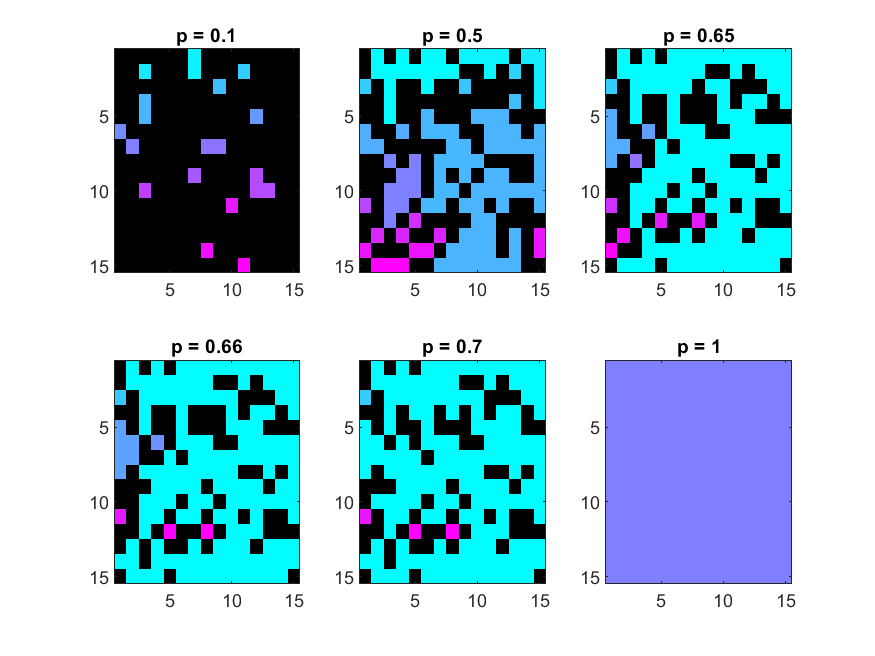
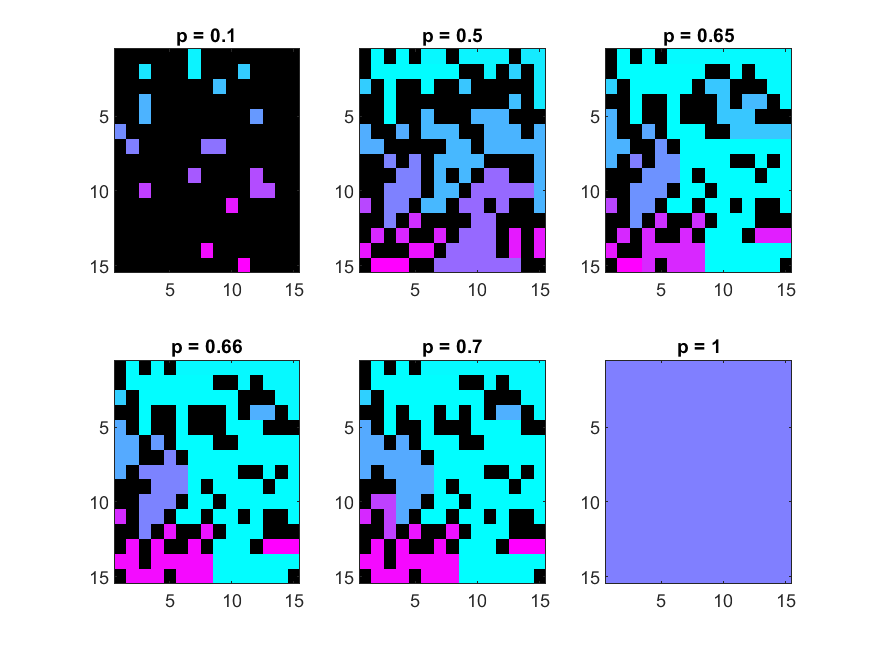
modification of the test functions, implementation of the neighbour function, removal of unnecessary function

diff --git a/testing/test_isvalid_regroup.m b/testing/test_isvalid_regroup.m
@@ -1,14 +1,27 @@
-function test_isvalid_regroup(mask)
-[label,mask]=regroup(mask);
- for i=1:size(mask,1)-1
-    for j=1:size(mask,2)-1
-        %test that 0 and 1 in mask are linked also in label
-        if mask(i,j) == mask(i+1,j) 
-            assert (label(i,j) == label(i+1,j));
-        end
-        if mask(i,j) == mask(i,j+1) 
-            assert (label(i,j) == label(i,j+1));
-        end
-    end
-end
-end
+function test_isvalid_regroup()
+% This test function considers two expected label examples and by applying the
+% regroup function test its validity
+
+% Test 1: generic non percolating case
+mask = [0 0 0 0 0;
+        0 1 0 1 0;
+        0 0 1 0 0;
+        0 1 0 1 0;
+        0 0 0 0 0]; % Input mask
+expected_label = [1, 0, 2; 0, 3, 0; 4, 0, 5]; % Expected output label matrix
+expected_mask = [1, 0, 1; 0, 1, 0; 1, 0, 1]; % Expected output mask matrix
+[actual_label, actual_mask] = regroup(mask);
+assert(isequal(actual_label, expected_label), 'Test failed: label matrix not as expected');
+assert(isequal(actual_mask, expected_mask), 'Test failed: mask matrix not as expected');
+
+%Test 2: generic percolating case
+mask = [0 0 0 0 0;
+        0 0 1 1 0;
+        0 1 0 1 0;
+        0 1 1 1 0;
+        0 0 0 0 0];
+expected_label = [0, 1, 1; 1, 0, 1; 1, 1, 1];
+expected_mask = [0, 1, 1; 1, 0, 1; 1, 1, 1];
+[actual_label, actual_mask] = regroup(mask);
+assert(isequal(actual_label, expected_label), 'Test failed: label matrix not as expected');
+assert(isequal(actual_mask, expected_mask), 'Test failed: mask matrix not as expected');

diff --git a/testing/test_substitute.m b/testing/test_substitute.m
@@ -1,22 +1,33 @@
 function test_substitute()
+%This test function considers two label examples and by applying the substitute 
+%function tests its validity 
+%In the second example it tests that every cluster has its minimum
+%possible value respect to the initial label matrix
+
 % Test case 1: Substitute multiple labels in a 3x3 matrix
-label = [1 2 3; 4 2 6; 2 2 9];
+label = [1 2 3; 
+         4 5 6;
+         2 2 9];
 copy = 2;
-minimum = 0;
-expected = [1 0 3; 4 0 6; 0 0 9];
-assert(isequal(substitute(label, copy, minimum), expected));
-% Test case 2: substitute function (in the regroup one) every cluster has its minimum
-   %possible value (minimum one)
-load('config.mat','N','M','p','len','s');
-for z=1:len
-   [mask]=initial_mask(N,M,p(z),s);
-   [label]=counter_process(mask);
-   copy=label;
-   [label]=regroup(mask);
-    for j=1:size(label,2)
-        for i=1:size(label,1)
-            assert (label(i,j)<=copy(i,j))
-        end
-    end
-end
-end
+minimum = 1;
+expected = [1 1 3;
+            4 5 6;
+            1 1 9];
+[actual] = substitute(label, copy, minimum);
+assert(isequal(actual, expected), 'Test failed: substitute matrix not as expected');
+
+% Test case 2: propriety of substitute function   
+label = [0 1 0 2;
+         1 1 0 2;
+         0 1 1 1;
+         0 0 1 0];
+copy = 2;
+minimum = 1;
+[actual] = substitute(label, copy, minimum);
+assert(all(actual(:) <= label(:)), 'Test failed: substitute matrix not as expected');
+
+
+
+
+   
+   

diff --git a/percolating/regroup.m b/percolating/regroup.m
@@ -5,9 +5,9 @@ function [label,mask]=regroup(mask)
 %Parameters = mask: configuration created by initial_mask;
 %return the label matrix (and therefore the percolation pattern) and the initial
 %mask
+
  counter=1;
  label=zeros(size(mask));
- 
  for i=2:size(mask,1)-1
     for j=2:size(mask,2)-1
          if  mask(i,j)~=0
@@ -20,7 +20,7 @@ for i=2:size(label,1)-1
     for j=2:size(label,2)-1
         if  label(i,j)~=0
             minimum=label(i,j); %verifying in the 4 nearest neighbours the minimum value of the label
-            [min_neighbour]=neighbours(label,i,j);
+            [min_neighbour,label]=neighbours(label,i,j);
             if min_neighbour <= minimum
               minimum=min_neighbour;
               copy=label(i,j);
@@ -28,19 +28,15 @@ for i=2:size(label,1)-1
               [label]=substitute(label,copy,minimum);%use a substitute function in order to double check possible neighbours connected but not yet visualized
             else
                copy=min_neighbour;
-               label(i,j)=minimum;
+               
                [label]=substitute(label,copy,minimum);
             end
         end
     end
 end
-
-
 %remove external zeros
-
 mask = mask(2:size(mask,1)-1,2:size(mask,2)-1);
 label = label(2:size(label,1)-1,2:size(label,2)-1); 
-
 end
 
 

diff --git a/testing/test_results.m b/testing/test_results.m
@@ -1,14 +1,17 @@
 function test_results()
+%This test function consider two examples of label and by applying the
+%results function test where it has or not percolation
+%in the second test it gives percolation even if there's no path, but in 
+%our algorithm if they have same value there is always a path
+
 % Test case 1: No percolation
     label = [1, 2, 3; 4, 5, 6; 7, 8, 9];
     [perc, last] = results(label);
     assert(perc == 0, 'Error: The perc value is incorrect');
     assert(strcmp(last, 'The system has not reached percolation'), 'Error: The last string is incorrect');
-% Test case 2: Percolation
-    label = [1, 2, 3; 4, 5, 6; 3, 8, 9]; %scenario where opposite corners are occupied
+% Test case 2: Percolation scenario where opposite corners are occupied
+    label = [1, 2, 3; 4, 5, 6; 3, 8, 9]; 
     [perc, last] = results(label);
-    assert(perc == 1, 'Error: The perc value is incorrect'); %test gives percolation even if there's no path, in our algorithm if they have same value there is always a path
+    assert(perc == 1, 'Error: The perc value is incorrect'); 
     assert(strcmp(last, 'The system is percolated'), 'Error: The last string is incorrect');
-
-
 end

diff --git a/testing/test_simulation.m b/testing/test_simulation.m
@@ -1,8 +1,27 @@
 function test_simulation()
-load('config.mat','percolation');
-for i=1:size(percolation,1)
-    for j=1:size(percolation,2)
-        assert (percolation(i,j)==0|percolation(i,j)==1)
-    end 
-end
-end
+%This test function calls the percolation function with example inputs
+% then the first test that the percolation table is made of 0 or 1
+%the second one tests that the total amount of 1 are the number of
+%the table elements
+
+len = 10;
+N = 50;
+M = 50;
+p = linspace(0.4, 0.7, len);
+s = 1;
+percolation=zeros(1,len);
+    for z=1:len
+           [mask]=initial_mask(N,M,p(z),s);
+           [label]=regroup(mask);
+           [perc]=results(label);
+           percolation(1,z)=perc;
+    end
+% Test 1    
+assert (all(percolation(:)==0|1), 'Test failed: percolation table not as expected')
+
+% Test 2
+expected_sum = numel(percolation(percolation==1));
+actual_sum = sum(percolation(:));
+assert(actual_sum == expected_sum, 'Test failed: vectorial sum of matrix elements is not equal to the number of 1s');
+
+end 

diff --git a/percolating/neighbours.m b/percolating/neighbours.m
@@ -1,6 +1,8 @@
-function [min_neighbour] = neighbours(label,i,j)
+function [min_neighbour,label] = neighbours(label,i,j)
 %this function analyze the 4 neighbours of a single element (i,j) 
-%and return the minimum value 
+%find the minimum value among them excluding the 0 find if it is smaller than (i,j)
+%and replace all the non-zero neighbour with it.
+
 %Parameters = label: working matrix; i: row index; j: column index
         above = label(i-1, j);
         below = label(i+1, j);
@@ -8,5 +10,13 @@ function [min_neighbour] = neighbours(label,i,j)
         right = label(i, j+1);
         A=[above,below,left,right];
         min_neighbour = min(A(A>0));
+        
+        A(A~=0)=min_neighbour;
+        label(i-1, j) = A(1,1);
+        label(i+1, j) = A(1,2);
+        label(i, j-1) = A(1,3);
+        label(i, j+1) = A(1,4);
+
+
 end        
       

diff --git a/percolating/counter_process.m b/percolating/counter_process.m
@@ -1,7 +1,6 @@
  function [label,mask]=counter_process(mask)
 %this function evaluates the sites of the initial mask and build a second
-%matrix (label) that consider the 4 nearest neighbours of the initial site,
-%assigning a counter value for non zero sites
+%matrix (label) assigning a counter value for non zero sites
 %Parameters = mask: configuration created by initial_mask;
 %return the initial mask and the label one
  counter=1;

diff --git a/plots/imaging.m b/plots/imaging.m
@@ -1,4 +1,8 @@
 function imaging()
+%this function plot 6 images of different lattice for a given set of
+%probabilities loaded from the config. It then saves the plots in the images
+%folder
+
 load('config.mat','N','M','s','ip','lenip');
 j = cool;
 j(1,:) = [ 0 0 0 ];

diff --git a/testing/test_counter_process.m b/testing/test_counter_process.m
@@ -1,5 +1,5 @@
 function test_counter_process()
-load('config.mat','N','M','p','len','s');
+
 
 for z=1:len
 [mask]=initial_mask(N,M,p(z),s);
